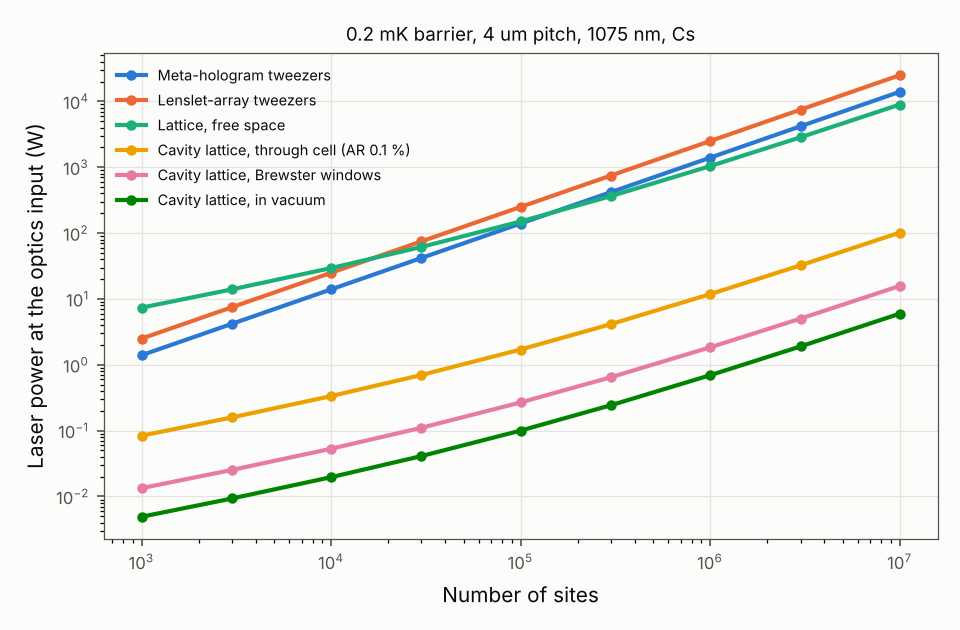
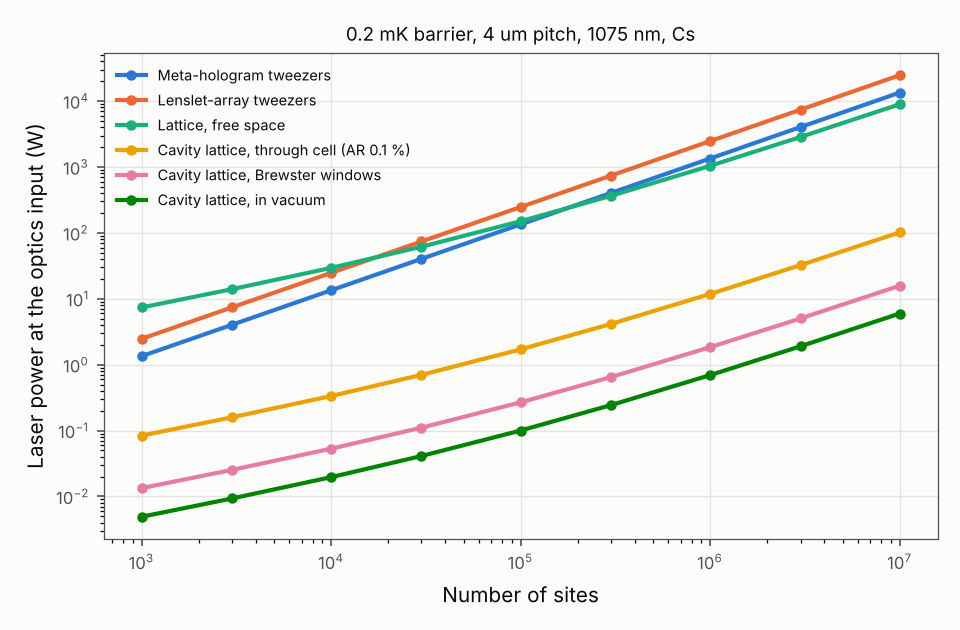
Cavity tweezer anchors: 148.7 (hologram, corrected power budget) and 81 (lenslet, rows) mK x site / W replace the superseded 143 and 80; budget, scaling and figures rerun; cavity doc and both LaTeX editions updated
The withdrawn hexagonal lenslet value (95) is removed from metatrap.cavity.budget.
PDFs in docs/report not rebuilt (no TeX toolchain in this container).

Claude-Session: https://claude.ai/code/session_013HRuYi94EB9cHXa1UrtoSF

diff --git a/docs/report/cavity_report.tex b/docs/report/cavity_report.tex
@@ -13,7 +13,7 @@ for $10^{5}$ to $10^{6}$ cesium atoms}
 \maketitle
 
 \begin{abstract}
-Static meta-optic tweezer arrays for $10^{6}$ cesium atoms need about \SI{1.4}{\kilo\watt} of
+Static meta-optic tweezer arrays for $10^{6}$ cesium atoms need about \SI{1.35}{\kilo\watt} of
 trapping light at \SI{1075}{\nano\metre}, which makes laser power, heat in the metasurface and
 damage by absorbing defects the limits on scaling. We show that a build-up cavity cannot reduce the
 power of such an array tenfold, because every intracavity focusing element is passed at least twice
@@ -40,9 +40,9 @@ or less, and keeps its in-plane mirrors at \SI{4.2}{\kilo\watt\per\centi\metre\s
 \label{sec:intro}
 
 A neutral-atom array of $10^{5}$ to $10^{6}$ sites, trapped by meta-optic tweezers, needs trapping
-light in proportion to the number of sites. With the meta-hologram of this project (\SI{143}{\milli\kelvin}
-site per watt) a \SI{0.2}{\milli\kelvin} trap at every one of $10^{6}$ sites needs \SI{1.40}{\kilo\watt}
-at the optics input, and the lenslet array \SI{2.50}{\kilo\watt}. At this power three limits act
+light in proportion to the number of sites. With the meta-hologram of this project (\SI{148.7}{\milli\kelvin}
+site per watt) a \SI{0.2}{\milli\kelvin} trap at every one of $10^{6}$ sites needs \SI{1.35}{\kilo\watt}
+at the optics input, and the lenslet array \SI{2.47}{\kilo\watt}. At this power three limits act
 together: (i) the laser power itself; (ii) the heat deposited in the metasurface and its substrate;
 and (iii) damage, and thermal lensing, caused by absorbing defects on surfaces that carry the full
 beam. A build-up cavity is the standard way to reduce the input power, because the light is reused
@@ -304,7 +304,7 @@ The vertical axis scales close to $N$, because its beams must also cover the ver
 \begin{table}[htbp]
 \centering
 \caption{Circulating power of the three lattice axes and the input power of hologram tweezers of the
-same depth. The hologram column reproduces the \SI{210}{\watt} of the earlier $10^{5}$-site study at
+same depth. The hologram column reproduces the \SI{202}{\watt} of the earlier $10^{5}$-site study (WD 10 to \SI{25}{\milli\metre}) at
 \SI{0.3}{\milli\kelvin}.}
 \label{tab:power}
 \small
@@ -312,10 +312,10 @@ same depth. The hologram column reproduces the \SI{210}{\watt} of the earlier $1
 \toprule
 $N$, barrier & Per in-plane axis & Vertical axis & Total circulating & Hologram tweezers \\
 \midrule
-$10^{5}$, \SI{0.2}{\milli\kelvin} & \SI{32}{\watt} & \SI{78}{\watt} & \SI{143}{\watt} & \SI{140}{\watt} \\
-$10^{5}$, \SI{0.3}{\milli\kelvin} & \SI{48}{\watt} & \SI{117}{\watt} & \SI{214}{\watt} & \SI{210}{\watt} \\
-$10^{6}$, \SI{0.2}{\milli\kelvin} & \SI{102}{\watt} & \SI{785}{\watt} & \SI{989}{\watt} & \SI{1399}{\watt} \\
-$10^{6}$, \SI{0.3}{\milli\kelvin} & \SI{154}{\watt} & \SI{1177}{\watt} & \SI{1484}{\watt} & \SI{2098}{\watt} \\
+$10^{5}$, \SI{0.2}{\milli\kelvin} & \SI{32}{\watt} & \SI{78}{\watt} & \SI{143}{\watt} & \SI{134}{\watt} \\
+$10^{5}$, \SI{0.3}{\milli\kelvin} & \SI{48}{\watt} & \SI{117}{\watt} & \SI{214}{\watt} & \SI{202}{\watt} \\
+$10^{6}$, \SI{0.2}{\milli\kelvin} & \SI{102}{\watt} & \SI{785}{\watt} & \SI{989}{\watt} & \SI{1345}{\watt} \\
+$10^{6}$, \SI{0.3}{\milli\kelvin} & \SI{154}{\watt} & \SI{1177}{\watt} & \SI{1484}{\watt} & \SI{2017}{\watt} \\
 \bottomrule
 \end{tabular}
 \end{table}
@@ -360,7 +360,7 @@ the in-vacuum lattice needs \SI{1.4}{\watt} at $G = 1500$ and \SI{6.9}{\watt} th
 \includegraphics[width=0.85\linewidth]{cavity_budget/power_scaling.png}
 \caption{Laser power at the input of the trapping optics versus the number of sites, for a
 \SI{0.2}{\milli\kelvin} barrier at \SI{1075}{\nano\metre} and \SI{4}{\micro\metre} pitch. Tweezer
-lines: 143 (hologram) and 80 (lenslet) \si{\milli\kelvin} site per watt from earlier simulations of
+lines: 148.7 (hologram) and 81 (lenslet) \si{\milli\kelvin} site per watt from earlier simulations of
 this project. Lattice lines: two in-plane axes and one vertical axis (\SI{8}{\micro\metre} period),
 flat-top times Gaussian sheets ($w_z = \SI{75}{\micro\metre}$), mode matching 0.95; cavity enhancement
 for $T = 3L$ with 10 reflections of \SI{50}{\ppm} per round trip, plus 8 AR surfaces of
@@ -897,7 +897,7 @@ Worst case, graded-mirror loss absorbed: absorbed; rise; bulge & \SI{2.1}{\watt}
 Three results follow. (i) The heat to be removed is small. With IBS coatings 10 to \SI{99}{\milli\watt} is
 absorbed inside the vacuum system at $10^{6}$ sites (14 and \SI{6.5}{\milli\watt} at $10^{5}$ and $10^{4}$), and
 \SI{2.4}{\watt} of scattered light is spread over the chamber walls and mounts. None of this needs water
-cooling; it is three orders of magnitude below the \SI{1.4}{\kilo\watt} that the tweezer route would pass
+cooling; it is three orders of magnitude below the \SI{1.35}{\kilo\watt} that the tweezer route would pass
 through its meta-optics. (ii) The mirrors must be heat-sunk by conduction. A free sapphire strip in the
 vertical ring would warm by \SI{5.3}{\kelvin}, with a radiative time constant of about \SI{12}{\minute};
 clamped in a conducting mount it warms by \SI{0.07}{\kelvin}. (iii) The graded-mirror loss must be scatter,
@@ -1200,10 +1200,10 @@ horizontal and vertical direction of the vertical ring.}
  & $10^{4}$ sites & $10^{5}$ sites & $10^{6}$ sites \\
 \midrule
 Array side; in-plane flat-top equivalent width & 0.40; \SI{0.55}{\milli\metre} & 1.26; \SI{1.74}{\milli\metre} & 4.00; \SI{5.51}{\milli\metre} \\
-Hologram tweezers, input & \SI{14}{\watt} & \SI{140}{\watt} & \SI{1399}{\watt} \\
+Hologram tweezers, input & \SI{13}{\watt} & \SI{134}{\watt} & \SI{1345}{\watt} \\
 Lattice in free space, input & \SI{69}{\watt} & \SI{150}{\watt} & \SI{1041}{\watt} \\
 Cavity lattice, input at $G = 300$ / 1500 & 0.23 / \SI{0.046}{\watt} & 0.50 / \SI{0.10}{\watt} & 3.5 / \SI{0.69}{\watt} \\
-Tweezer power over cavity input ($G = 300$) & 61 & 279 & 403 \\
+Tweezer power over cavity input ($G = 300$) & 59 & 269 & 387 \\
 Vertical ring share of circulating power & \SI{69}{\percent} & \SI{55}{\percent} & \SI{79}{\percent} \\
 Adopted vertical ring & plain, Gaussian vertical profile ($w = \SI{266}{\micro\metre}$) & plain, order-10 vertical flat-top & $0.15\times$ horizontal, $4\times$ vertical telescope \\
 Adopted in-plane ring & plain, $p = \SI{150}{\milli\metre}$ & plain, $p = \SI{150}{\milli\metre}$ & $0.2\times$ telescope \\
@@ -1236,11 +1236,11 @@ the hottest mirror. Fox--Li strip models, 8192 points, $G = 300$.}
 \label{fig:scaling}
 \end{figure}
 
-Six results follow. (i) Laser power is not a constraint at $10^{4}$ (\SI{14}{\watt} of tweezers), and a
+Six results follow. (i) Laser power is not a constraint at $10^{4}$ (\SI{13}{\watt} of tweezers), and a
 lattice in free space needs more than tweezers below about $10^{5}$, because its in-plane power scales as
-the array side and the tweezer power as the number of sites. The cavity reduces the input 61, 279 and
-403 times against tweezers. Thus the cavity is a convenience at $10^{4}$, a large saving at $10^{5}$
-(\SI{0.50}{\watt} against \SI{140}{\watt}) and necessary at $10^{6}$. The vertical ring takes 55 and
+the array side and the tweezer power as the number of sites. The cavity reduces the input 59, 269 and
+387 times against tweezers. Thus the cavity is a convenience at $10^{4}$, a large saving at $10^{5}$
+(\SI{0.50}{\watt} against \SI{134}{\watt}) and necessary at $10^{6}$. The vertical ring takes 55 and
 \SI{79}{\percent} of the power at $10^{5}$ and $10^{6}$, because its vertical flat-top must cover a walk-off
 that grows with the array side; at $10^{4}$ it takes \SI{69}{\percent}, because the adopted Gaussian profile
 (item (iv)) is wider than a flat-top would be. A sheet thickness scaled as the square root of the side, which keeps the same \SI{1}{\percent}
@@ -1357,7 +1357,7 @@ Noise for a \SI{10}{\second} heating time at \SI{10}{\micro\kelvin} & RIN below 
 
 The total circulating power is \SI{989}{\watt} and the total input \SI{3.5}{\watt} at $G = 300$
 (\SI{0.69}{\watt} at $G = 1500$), against \SI{1.04}{\kilo\watt} for the same lattice in free space and
-\SI{1.40}{\kilo\watt} for meta-hologram tweezers.
+\SI{1.35}{\kilo\watt} for meta-hologram tweezers.
 
 \section{Reproducibility}
 \label{app:repro}
@@ -1399,8 +1399,8 @@ DERIVED values are calculations from stated inputs, and SOURCE values are taken 
 listed above, each of which was retrieved and read. The precedent values of Park et al., Norcia et al.,
 LIGO, Zeiss, the Cs MOT and grating-MOT experiments, and the heating rates of Savard et al.\ are SOURCE;
 the cesium polarisability is the repository's implementation of Steck's data (DERIVED from a source not
-re-read for this report); the tweezer anchors of 143 and \SI{80}{\milli\kelvin} site per watt are SIM
-from earlier studies of this project; all Fox--Li, correction, two-dimensional, vertical-ring,
+re-read for this report); the tweezer anchors of 148.7 and \SI{81}{\milli\kelvin} site per watt are SIM
+and DERIVED from earlier studies of this project (corrected power budget); all Fox--Li, correction, two-dimensional, vertical-ring,
 deformation and access results are SIM; the budget, layout, trap frequencies, loading estimate and noise
 requirements are DERIVED. The full ledger, with one row per value and its file pointer, is in the
 working edition (\texttt{docs/cavity\_concept.md}, Verification notes).

diff --git a/docs/report/cavity_concept_faithful_body.tex b/docs/report/cavity_concept_faithful_body.tex
@@ -46,8 +46,8 @@ Power at the optics input
 \endhead
 \bottomrule\noalign{}
 \endlastfoot
-Meta-hologram tweezers (NA 0.55, this repository) & 1.40 kW \\
-Lenslet-array tweezers (this repository) & 2.50 kW \\
+Meta-hologram tweezers (NA 0.55, this repository) & 1.35 kW \\
+Lenslet-array tweezers (this repository) & 2.47 kW \\
 Lattice in free space (two in-plane axes and one vertical axis) & 1.04 kW \\
 Cavity lattice, mirrors in vacuum, over-coupled to G = 300 & 3.5 W \\
 Cavity lattice, mirrors in vacuum, G = 1500 & 0.69 W \\
@@ -134,7 +134,7 @@ telescope. All corrections are static; drift must stay below these levels betwee
 \item
   The large step is from \(10^{5}\) to \(10^{6}\) sites (Section 6d). The same models at \(10^{4}\) and \(10^{5}\) show
   that a plain ring without telescope is non-degenerate there (nearest mode 0.78 and 0.17 rad away, with
-  \(2.4\times10^{-2}\) and \(2.5\times10^{-4}\) loss), needs 0.23 and 0.50 W of input at G = 300 (tweezers: 14 and 140 W), gives 1.6
+  \(2.4\times10^{-2}\) and \(2.5\times10^{-4}\) loss), needs 0.23 and 0.50 W of input at G = 300 (tweezers: 13 and 134 W), gives 1.6
   to 3.0 \% for \(\lambda\)/1000 errors on every mirror (the atom loop corrects \(10^{5}\) to 0.20 to 0.49 \%), and
   keeps the in-plane mirrors at 4.2 kW/cm\(^{2}\) (defects up to 1.5 \(\upmu\mathrm{m}\) on fused silica). The \(10^{6}\) telescope
   design does not scale down (4.4 \% ideal at \(10^{4}\)). At \(10^{6}\) the degeneracy brings the telescope, a 0.14 \(\upmu\mathrm{m}\)
@@ -152,7 +152,7 @@ first-order design.
 \includegraphics{../../results/cavity_budget/power_scaling.png}
 
 Figure 1. Laser power at the input of the trapping optics versus the number of sites, for a
-0.2 mK barrier (tweezer depth) at 1075 nm and 4 \(\upmu\mathrm{m}\) pitch. Tweezer lines: 143 (hologram) and 80
+0.2 mK barrier (tweezer depth) at 1075 nm and 4 \(\upmu\mathrm{m}\) pitch. Tweezer lines: 148.7 (hologram) and 81
 (lenslet) mK x site / W from the Phase A simulations. Lattice lines: two in-plane axes and one
 vertical axis (8 \(\upmu\mathrm{m}\) period), flat-top x Gaussian sheets (\(w_z\) = 75 \(\upmu\mathrm{m}\)), mode matching 0.95; cavity
 enhancement for the over-coupled design T = 3L with 10 reflections of 50 ppm per round trip, plus
@@ -196,7 +196,7 @@ Noise for a 10 s heating time at 10 \(\upmu\mathrm{K}\) & RIN \textless{} -106 d
 \end{longtable}
 
 Total circulating power 989 W; total input 3.5 W at G = 300 (0.69 W at G = 1500), against 1.04 kW
-for the same lattice in free space and 1.40 kW for meta-hologram tweezers. Input powers per ring are
+for the same lattice in free space and 1.35 kW for meta-hologram tweezers. Input powers per ring are
 DERIVED from the circulating powers (\nolinkurl{results/cavity_budget/budget.json}) as \(P_\mathrm{circ}\) / (0.95 G).
 
 \hypertarget{why-the-tweezer-array-cannot-be-cavity-enhanced-tenfold}{%
@@ -409,13 +409,13 @@ Hologram tweezers
 \endhead
 \bottomrule\noalign{}
 \endlastfoot
-\(10^{5}\), 0.2 mK & 32 W & 78 W & 143 W & 140 W \\
-\(10^{5}\), 0.3 mK & 48 W & 117 W & 214 W & 210 W \\
-\(10^{6}\), 0.2 mK & 102 W & 785 W & 989 W & 1,399 W \\
-\(10^{6}\), 0.3 mK & 154 W & 1,177 W & 1,484 W & 2,098 W \\
+\(10^{5}\), 0.2 mK & 32 W & 78 W & 143 W & 134 W \\
+\(10^{5}\), 0.3 mK & 48 W & 117 W & 214 W & 202 W \\
+\(10^{6}\), 0.2 mK & 102 W & 785 W & 989 W & 1,345 W \\
+\(10^{6}\), 0.3 mK & 154 W & 1,177 W & 1,484 W & 2,017 W \\
 \end{longtable}
 
-The hologram column reproduces the 210 W of \nolinkurl{docs/scaling_100k.md} for \(10^{5}\) sites at 0.3 mK.
+The hologram column reproduces the 202 W of \nolinkurl{docs/scaling_100k.md} (WD 10 to 25 mm) for \(10^{5}\) sites at 0.3 mK.
 
 Round-trip loss and enhancement (10 reflections of 50 ppm; per-mirror bound of Norcia et al.):
 
@@ -1096,7 +1096,7 @@ unchanged.
 What the budget shows. (i) The heat to be removed is small. With IBS coatings, 10 to 99 mW is absorbed
 inside the vacuum system at \(10^{6}\) sites, and 2.4 W of scattered light is spread over the chamber walls and
 mounts. The reflected watt goes to an air-cooled dump outside. None of this needs water cooling: it is
-three orders of magnitude below the 1.4 kW that the tweezer route would pass through its meta-optics.
+three orders of magnitude below the 1.35 kW that the tweezer route would pass through its meta-optics.
 (ii) The mirrors must be heat-sunk by conduction, not by water. A free sapphire strip in the vertical
 ring would warm by 5.3 K, with a radiative time constant of about 12 min; clamped in a conducting mount
 it warms by 0.07 K. A mount conductance of order 0.1 W/K keeps the whole mirror within 0.1 K of the
@@ -1438,10 +1438,10 @@ it loses \(1.6\times10^{-8}\) and \(3.4\times10^{-5}\) (\nolinkurl{results/cavit
 \bottomrule\noalign{}
 \endlastfoot
 Array side; in-plane flat-top equivalent width & 0.40 mm; 0.55 mm & 1.26 mm; 1.74 mm & 4.00 mm; 5.51 mm \\
-Hologram tweezers, input & 14 W & 140 W & 1399 W \\
+Hologram tweezers, input & 13 W & 134 W & 1345 W \\
 Lattice in free space, input & 69 W & 150 W & 1041 W \\
 Cavity lattice, input at G = 300 / 1500 & 0.23 / 0.046 W & 0.50 / 0.10 W & 3.5 / 0.69 W \\
-Tweezer power / cavity input at G = 300 & 61 & 279 & 403 \\
+Tweezer power / cavity input at G = 300 & 59 & 269 & 387 \\
 Vertical ring share of the circulating power & 69 \% & 55 \% & 79 \% \\
 Adopted vertical ring & plain, Gaussian vertical profile (w = 266 \(\upmu\mathrm{m}\)) & plain, order-10 vertical flat-top & 0.15\(\times\) horizontal, 4\(\times\) vertical telescope \\
 Adopted in-plane ring & plain, p = 150 mm & plain, p = 150 mm & 0.2\(\times\) telescope \\
@@ -1459,11 +1459,11 @@ Edge-site crossing-angle requirement, 10 s at 10 \(\upmu\mathrm{K}\) & 0.70 \(\m
 MOT atoms needed (cloud matched at the corners; into the sheets) & \(4.7\times10^{6}\) to \(5.0\times10^{6}\); \(3.7\times10^{5}\) & \(1.5\times10^{8}\) to \(1.6\times10^{8}\); \(3.7\times10^{6}\) & \(4.8\times10^{9}\) to \(5.1\times10^{9}\); \(3.7\times10^{7}\) \\
 \end{longtable}
 
-What the comparison shows. (i) Power. Laser power is not a constraint at \(10^{4}\) (14 W of tweezers), and
+What the comparison shows. (i) Power. Laser power is not a constraint at \(10^{4}\) (13 W of tweezers), and
 a lattice in free space needs more than tweezers below about \(10^{5}\), because its in-plane power scales
-as the array side and the tweezer power as the number of sites. The cavity reduces the input 61, 279 and 403 times against tweezers
+as the array side and the tweezer power as the number of sites. The cavity reduces the input 59, 269 and 387 times against tweezers
 at \(10^{4}\), \(10^{5}\) and \(10^{6}\). Hence the cavity is a convenience at \(10^{4}\), a large saving at \(10^{5}\) (0.50 W
-against 140 W) and necessary at \(10^{6}\). The vertical ring takes 55 \% of the power at \(10^{5}\) and 79 \% at
+against 134 W) and necessary at \(10^{6}\). The vertical ring takes 55 \% of the power at \(10^{5}\) and 79 \% at
 \(10^{6}\), because its vertical flat-top must cover a walk-off that grows with the array side; at \(10^{4}\) its
 share is 69 \% because the adopted Gaussian profile (item (iv)) is wider than a flat-top would be. A sheet thickness \(w_z\) scaled as
 sqrt(side), which keeps the same 1 \% roll-off per array length, would lower the \(10^{4}\) input to 0.18 W (with the
@@ -1556,7 +1556,7 @@ Pointer
 \bottomrule\noalign{}
 \endlastfoot
 Power budget, losses, enhancements & Result, Sections 1, 3 & DERIVED (code) & \nolinkurl{results/cavity_budget/budget.json} \\
-Tweezer anchors 143 and 80 mK x site / W & Section 3 & SIM (earlier runs) & \nolinkurl{docs/scaling_100k.md}, \nolinkurl{docs/million_sites.md} \\
+Tweezer anchors 148.7 and 81 mK x site / W (corrected power budget; 143 and 80 before 2026-11-20) & Section 3 & SIM / DERIVED & \nolinkurl{docs/scaling_100k.md}, \nolinkurl{docs/million_sites.md} \\
 Cs depth per intensity \(2.53\times10^{-13}\) K / (W/m\(^{2}\)) & Section 3 & DERIVED from SOURCE & \nolinkurl{atoms/alkali.py} (Steck data) \\
 Concentric ray trace & Section 1 & SIM, review before submission & \nolinkurl{results/cavity_tweezer_bounds/bounds.json} \\
 Fox-Li designs, spectra, tolerances & Sections 4, Result & SIM, review before submission & \nolinkurl{results/cavity_foxli/foxli.json} (field .npz files are regenerated by the script, not versioned) \\

diff --git a/src/metatrap/cavity/budget.py b/src/metatrap/cavity/budget.py
@@ -20,9 +20,10 @@ i.e. the barrier between neighbouring sites along this axis, is 4 c sqrt(I_a I_b
 period is a = lambda / (2 sin theta).
 
 Tweezer baselines (SIM, this repository). Direct meta-hologram at NA 0.55, 1075 nm:
-143 mK x site / W including its array efficiency (docs/scaling_100k.md, from the 20,164-site
-v2 design; the 99,856-site design reproduces it to 2 %). Lenslet array relayed by the
-meta-objective: 80 (square) to 95 (hexagonal) mK x site / W (docs/million_sites.md, Section 4).
+148.7 mK x site / W including its array efficiency (docs/scaling_100k.md, Method: the 20,164-site
+v2 design with the corrected power budget; 143 before that correction). Lenslet array relayed by
+the meta-objective, square array with rows of alternating piston: ~81 mK x site / W
+(docs/million_sites.md, Section 4; 80 before, and the hexagonal 95 was withdrawn there).
 """
 
 from __future__ import annotations
@@ -32,9 +33,8 @@ import numpy as np
 from ..atoms.alkali import depth_K
 from ..constants import AMU, CESIUM, KB, AlkaliLines
 
-HOLOGRAM_MK_SITE_PER_W = 143.0  # SIM, docs/scaling_100k.md (Method), results/scaling_100k
-LENSLET_SQUARE_MK_SITE_PER_W = 80.0  # SIM/DERIVED, docs/million_sites.md Section 4
-LENSLET_HEX_MK_SITE_PER_W = 95.0  # SIM/DERIVED, docs/million_sites.md Section 4
+HOLOGRAM_MK_SITE_PER_W = 148.7  # SIM/DERIVED, docs/scaling_100k.md (Method), results/scaling_100k
+LENSLET_SQUARE_MK_SITE_PER_W = 81.0  # SIM/DERIVED, docs/million_sites.md Section 4 (rows alternating 0 / pi)
 TWEEZER_WAIST_UM = 0.866  # SIM, mean curvature waist, library pillars, results/fullaperture_100k
 
 

diff --git a/docs/cavity_concept.md b/docs/cavity_concept.md
@@ -31,8 +31,8 @@ plane twice at 2 theta = 15.4 deg. For 10^6 Cs sites at a 0.2 mK barrier per axi
 
 | Route | Power at the optics input |
 |---|---|
-| Meta-hologram tweezers (NA 0.55, this repository) | 1.40 kW |
-| Lenslet-array tweezers (this repository) | 2.50 kW |
+| Meta-hologram tweezers (NA 0.55, this repository) | 1.35 kW |
+| Lenslet-array tweezers (this repository) | 2.47 kW |
 | Lattice in free space (two in-plane axes and one vertical axis) | 1.04 kW |
 | Cavity lattice, mirrors in vacuum, over-coupled to G = 300 | 3.5 W |
 | Cavity lattice, mirrors in vacuum, G = 1500 | 0.69 W |
@@ -108,7 +108,7 @@ trap frequency. The last calls for a monolithic ring assembly with controlled me
 
 (viii) The large step is from 10^5 to 10^6 sites (Section 6d). The same models at 10^4 and 10^5 show
 that a plain ring without telescope is non-degenerate there (nearest mode 0.78 and 0.17 rad away, with
-2.4e-2 and 2.5e-4 loss), needs 0.23 and 0.50 W of input at G = 300 (tweezers: 14 and 140 W), gives 1.6
+2.4e-2 and 2.5e-4 loss), needs 0.23 and 0.50 W of input at G = 300 (tweezers: 13 and 134 W), gives 1.6
 to 3.0 % for lambda/1000 errors on every mirror (the atom loop corrects 10^5 to 0.20 to 0.49 %), and
 keeps the in-plane mirrors at 4.2 kW/cm^2 (defects up to 1.5 um on fused silica). The 10^6 telescope
 design does not scale down (4.4 % ideal at 10^4). At 10^6 the degeneracy brings the telescope, a 0.14 um
@@ -125,7 +125,7 @@ first-order design.
 ![Power versus number of sites](../results/cavity_budget/power_scaling.png)
 
 Figure 1. Laser power at the input of the trapping optics versus the number of sites, for a
-0.2 mK barrier (tweezer depth) at 1075 nm and 4 um pitch. Tweezer lines: 143 (hologram) and 80
+0.2 mK barrier (tweezer depth) at 1075 nm and 4 um pitch. Tweezer lines: 148.7 (hologram) and 81
 (lenslet) mK x site / W from the Phase A simulations. Lattice lines: two in-plane axes and one
 vertical axis (8 um period), flat-top x Gaussian sheets (w_z = 75 um), mode matching 0.95; cavity
 enhancement for the over-coupled design T = 3L with 10 reflections of 50 ppm per round trip, plus
@@ -153,7 +153,7 @@ Sources in the text: Sections 2, 3, 4, 4b, 5 and 6c.
 | Noise for a 10 s heating time at 10 uK | RIN < -106 dBc/Hz at 40 kHz; 0.32 pm/rtHz per mirror at 20 kHz | RIN < -100 dBc/Hz at 20 kHz; 0.64 pm/rtHz per mirror at 10 kHz |
 
 Total circulating power 989 W; total input 3.5 W at G = 300 (0.69 W at G = 1500), against 1.04 kW
-for the same lattice in free space and 1.40 kW for meta-hologram tweezers. Input powers per ring are
+for the same lattice in free space and 1.35 kW for meta-hologram tweezers. Input powers per ring are
 DERIVED from the circulating powers (results/cavity_budget/budget.json) as P_circ / (0.95 G).
 
 ## 1. Why the tweezer array cannot be cavity-enhanced tenfold
@@ -328,12 +328,12 @@ axis scales close to N, because its beams must also cover the vertical walk-off.
 
 | N, barrier | Per in-plane axis | Vertical axis | Total circulating | Hologram tweezers |
 |---|---|---|---|---|
-| 10^5, 0.2 mK | 32 W | 78 W | 143 W | 140 W |
-| 10^5, 0.3 mK | 48 W | 117 W | 214 W | 210 W |
-| 10^6, 0.2 mK | 102 W | 785 W | 989 W | 1,399 W |
-| 10^6, 0.3 mK | 154 W | 1,177 W | 1,484 W | 2,098 W |
+| 10^5, 0.2 mK | 32 W | 78 W | 143 W | 134 W |
+| 10^5, 0.3 mK | 48 W | 117 W | 214 W | 202 W |
+| 10^6, 0.2 mK | 102 W | 785 W | 989 W | 1,345 W |
+| 10^6, 0.3 mK | 154 W | 1,177 W | 1,484 W | 2,017 W |
 
-The hologram column reproduces the 210 W of docs/scaling_100k.md for 10^5 sites at 0.3 mK.
+The hologram column reproduces the 202 W of docs/scaling_100k.md (WD 10 to 25 mm) for 10^5 sites at 0.3 mK.
 
 Round-trip loss and enhancement (10 reflections of 50 ppm; per-mirror bound of Norcia et al.):
 
@@ -797,7 +797,7 @@ unchanged.
 What the budget shows. (i) The heat to be removed is small. With IBS coatings, 10 to 99 mW is absorbed
 inside the vacuum system at 10^6 sites, and 2.4 W of scattered light is spread over the chamber walls and
 mounts. The reflected watt goes to an air-cooled dump outside. None of this needs water cooling: it is
-three orders of magnitude below the 1.4 kW that the tweezer route would pass through its meta-optics.
+three orders of magnitude below the 1.35 kW that the tweezer route would pass through its meta-optics.
 (ii) The mirrors must be heat-sunk by conduction, not by water. A free sapphire strip in the vertical
 ring would warm by 5.3 K, with a radiative time constant of about 12 min; clamped in a conducting mount
 it warms by 0.07 K. A mount conductance of order 0.1 W/K keeps the whole mirror within 0.1 K of the
@@ -1040,10 +1040,10 @@ it loses 1.6e-8 and 3.4e-5 (results/cavity_vertical_apertures/apertures.json).
 | | 10^4 sites | 10^5 sites | 10^6 sites |
 |---|---|---|---|
 | Array side; in-plane flat-top equivalent width | 0.40 mm; 0.55 mm | 1.26 mm; 1.74 mm | 4.00 mm; 5.51 mm |
-| Hologram tweezers, input | 14 W | 140 W | 1399 W |
+| Hologram tweezers, input | 13 W | 134 W | 1345 W |
 | Lattice in free space, input | 69 W | 150 W | 1041 W |
 | Cavity lattice, input at G = 300 / 1500 | 0.23 / 0.046 W | 0.50 / 0.10 W | 3.5 / 0.69 W |
-| Tweezer power / cavity input at G = 300 | 61 | 279 | 403 |
+| Tweezer power / cavity input at G = 300 | 59 | 269 | 387 |
 | Vertical ring share of the circulating power | 69 % | 55 % | 79 % |
 | Adopted vertical ring | plain, Gaussian vertical profile (w = 266 um) | plain, order-10 vertical flat-top | 0.15x horizontal, 4x vertical telescope |
 | Adopted in-plane ring | plain, p = 150 mm | plain, p = 150 mm | 0.2x telescope |
@@ -1060,11 +1060,11 @@ it loses 1.6e-8 and 3.4e-5 (results/cavity_vertical_apertures/apertures.json).
 | Edge-site crossing-angle requirement, 10 s at 10 uK | 0.70 nrad/rtHz | 0.22 nrad/rtHz | 0.070 nrad/rtHz |
 | MOT atoms needed (cloud matched at the corners; into the sheets) | 4.7e6 to 5.0e6; 3.7e5 | 1.5e8 to 1.6e8; 3.7e6 | 4.8e9 to 5.1e9; 3.7e7 |
 
-What the comparison shows. (i) Power. Laser power is not a constraint at 10^4 (14 W of tweezers), and
+What the comparison shows. (i) Power. Laser power is not a constraint at 10^4 (13 W of tweezers), and
 a lattice in free space needs more than tweezers below about 10^5, because its in-plane power scales
-as the array side and the tweezer power as the number of sites. The cavity reduces the input 61, 279 and 403 times against tweezers
+as the array side and the tweezer power as the number of sites. The cavity reduces the input 59, 269 and 387 times against tweezers
 at 10^4, 10^5 and 10^6. Hence the cavity is a convenience at 10^4, a large saving at 10^5 (0.50 W
-against 140 W) and necessary at 10^6. The vertical ring takes 55 % of the power at 10^5 and 79 % at
+against 134 W) and necessary at 10^6. The vertical ring takes 55 % of the power at 10^5 and 79 % at
 10^6, because its vertical flat-top must cover a walk-off that grows with the array side; at 10^4 its
 share is 69 % because the adopted Gaussian profile (item (iv)) is wider than a flat-top would be. A sheet thickness w_z scaled as
 sqrt(side), which keeps the same 1 % roll-off per array length, would lower the 10^4 input to 0.18 W (with the
@@ -1138,7 +1138,7 @@ Provenance ledger:
 | Value | Location | Type | Pointer |
 |---|---|---|---|
 | Power budget, losses, enhancements | Result, Sections 1, 3 | DERIVED (code) | results/cavity_budget/budget.json |
-| Tweezer anchors 143 and 80 mK x site / W | Section 3 | SIM (earlier runs) | docs/scaling_100k.md, docs/million_sites.md |
+| Tweezer anchors 148.7 and 81 mK x site / W (corrected power budget; 143 and 80 before 2026-11-20) | Section 3 | SIM / DERIVED | docs/scaling_100k.md, docs/million_sites.md |
 | Cs depth per intensity 2.53e-13 K / (W/m^2) | Section 3 | DERIVED from SOURCE | atoms/alkali.py (Steck data) |
 | Concentric ray trace | Section 1 | SIM, review before submission | results/cavity_tweezer_bounds/bounds.json |
 | Fox-Li designs, spectra, tolerances | Sections 4, Result | SIM, review before submission | results/cavity_foxli/foxli.json (field .npz files are regenerated by the script, not versioned) |
